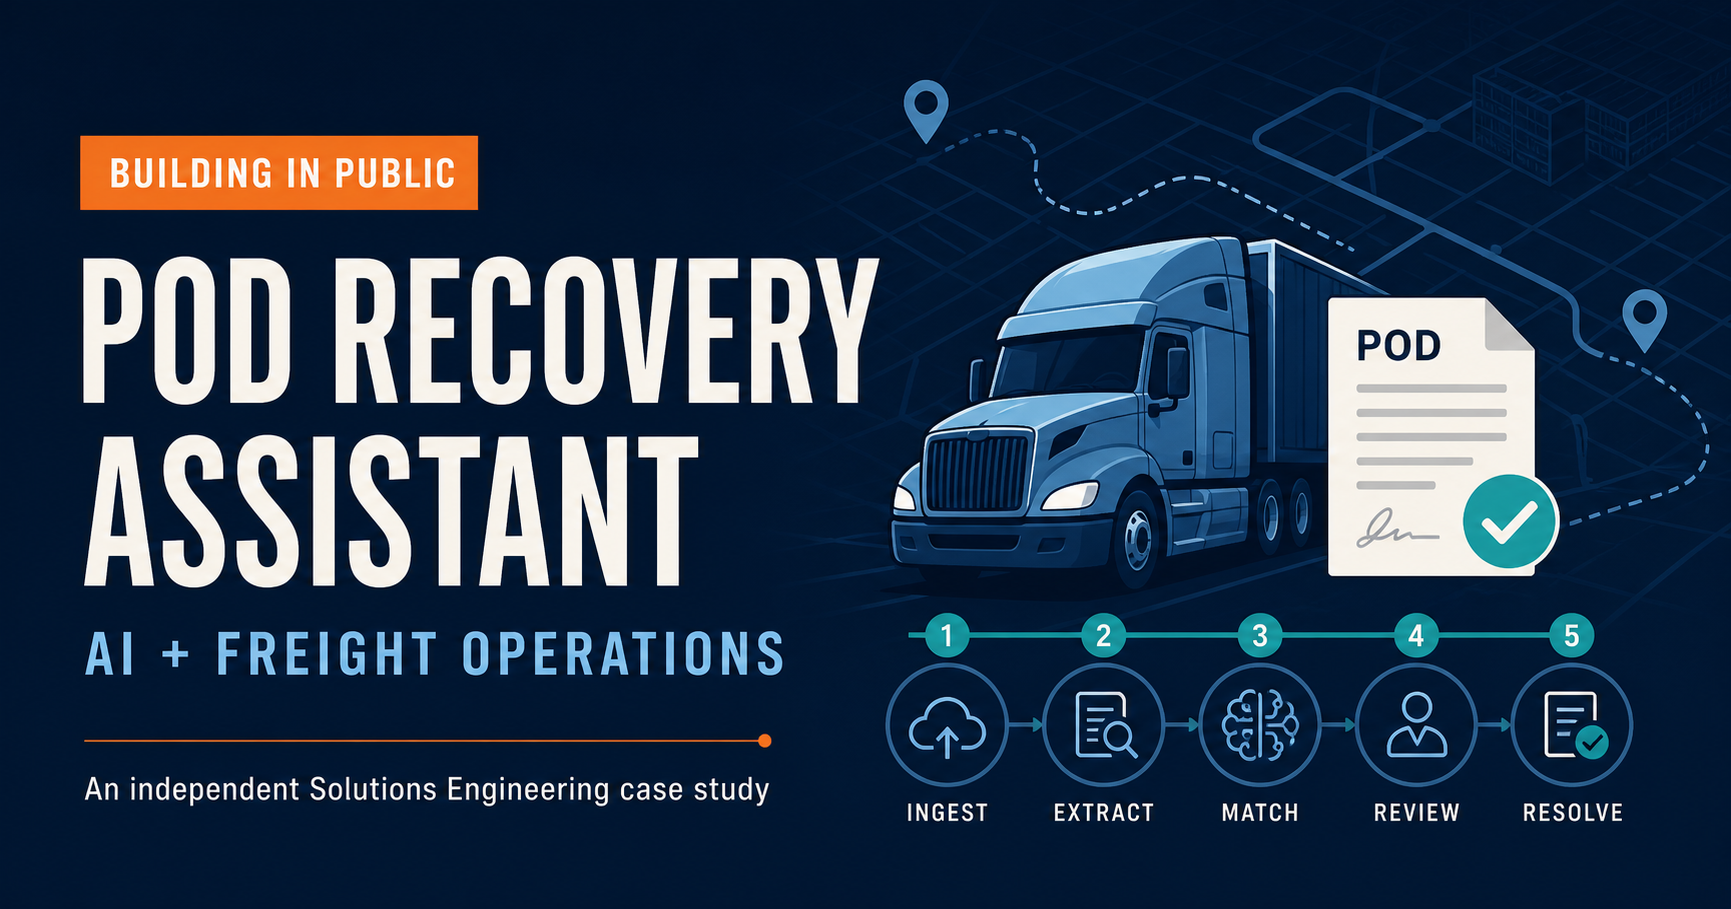
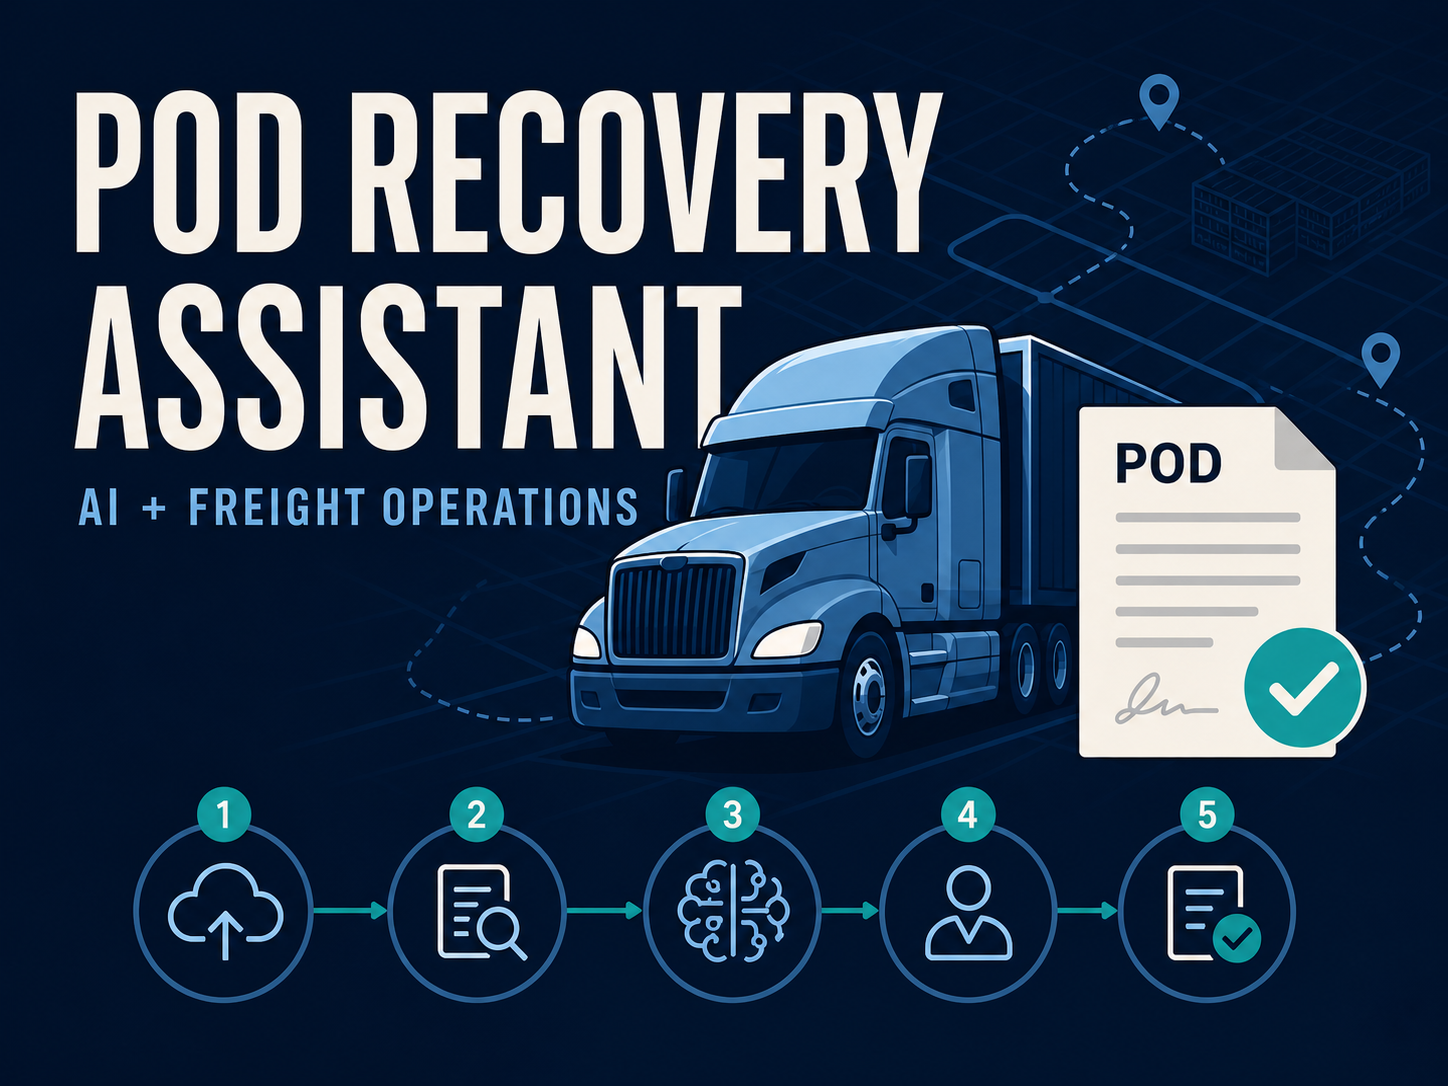
Replace product thumbnails with branded graphics, clean up unused images
Swaps live-screenshot thumbnails for consistent branded PNGs across
the whole portfolio grid, updates the POD Recovery Assistant and
Salesforce Intelligence thumbnails, and removes unused legacy images.

diff --git a/app/components/PortfolioSection.jsx b/app/components/PortfolioSection.jsx
@@ -8,7 +8,6 @@ const aiProjects = [
 	{
 		title: 'POD Recovery Assistant',
 		thumbnail: '/images/pod-recovery-assistant.png',
-		thumbnailFit: 'contain',
 		description:
 			'An independent Solutions Engineering case study: a controlled AI workflow that recovers missing proof-of-delivery documents for a freight brokerage, with SOP-grounded recommendations, human approval, and a full audit trail.',
 		badge: 'In Progress',
@@ -16,7 +15,7 @@ const aiProjects = [
 	},
 	{
 		title: 'Salesforce Intelligence',
-		thumbnail: '/images/salesforce-rag.jpg',
+		thumbnail: '/images/salesforce-rag.png',
 		description:
 			'A retrieval-augmented chat assistant built on live Salesforce data, letting support and sales teams ask natural-language questions about accounts, cases, and escalations and get sourced answers instantly.',
 		appLink: 'https://rag.insolla.ai',
@@ -27,35 +26,35 @@ const aiProjects = [
 const otherProjects = [
 	{
 		title: 'Workflow Analyzer',
-		thumbnail: '/images/workflow-analyzer.jpg',
+		thumbnail: '/images/workflow-analyzer.png',
 		description:
 			'Upload a process document, screenshot, or SOP and this tool extracts the workflow, then tells you exactly what to automate, which tools to use, and how many hours it will save each week.',
 		appLink: 'https://www.insolla.ai/workflow-analyzer',
 	},
 	{
 		title: 'List Enricher',
-		thumbnail: '/images/list-enricher.jpg',
+		thumbnail: '/images/list-enricher.png',
 		description:
 			'Upload a spreadsheet, describe the columns you want added in plain English, and get back a clean file enriched with real, web-researched data for every row.',
 		appLink: 'https://www.insolla.ai/products/list-enricher',
 	},
 	{
 		title: 'SOP Generator',
-		thumbnail: '/images/sop-generator.jpg',
+		thumbnail: '/images/sop-generator.png',
 		description:
 			'Describe a process in plain English or upload existing notes, and this tool turns tribal knowledge into a polished Standard Operating Procedure complete with roles, prerequisites, and quality checks.',
 		appLink: 'https://www.insolla.ai/products/sop-generator',
 	},
 	{
 		title: 'Meeting Notes Analyzer',
-		thumbnail: '/images/meeting-notes.jpg',
+		thumbnail: '/images/meeting-notes.png',
 		description:
 			'Paste in a transcript or raw notes and get a clean recap with action items, owners, due dates, decisions, and open questions ready to copy straight into your task tracker.',
 		appLink: 'https://www.insolla.ai/products/meeting-notes',
 	},
 	{
 		title: 'Contract Analyzer',
-		thumbnail: '/images/contract-analyzer.jpg',
+		thumbnail: '/images/contract-analyzer.png',
 		description:
 			'Upload any contract and get a plain-English summary, key dates, obligations on both sides, and severity-flagged risks worth pushing back on, all in about 30 seconds.',
 		appLink: 'https://www.insolla.ai/products/contract-analyzer',
@@ -74,7 +73,7 @@ function ProjectCard({ project }) {
 					className={project.thumbnailFit === 'contain' ? 'object-contain' : 'object-cover object-top'}
 				/>
 				{project.badge && (
-					<span className='absolute top-3 left-3 inline-flex items-center rounded-full bg-brand/15 px-2.5 py-1 text-[10px] font-semibold uppercase tracking-wider text-brand-text ring-1 ring-inset ring-brand/30 backdrop-blur-sm'>
+					<span className='absolute top-3 right-3 inline-flex items-center rounded-full bg-black/70 px-2.5 py-1 text-[10px] font-semibold uppercase tracking-wider text-white ring-1 ring-inset ring-white/20 backdrop-blur-md'>
 						{project.badge}
 					</span>
 				)}
